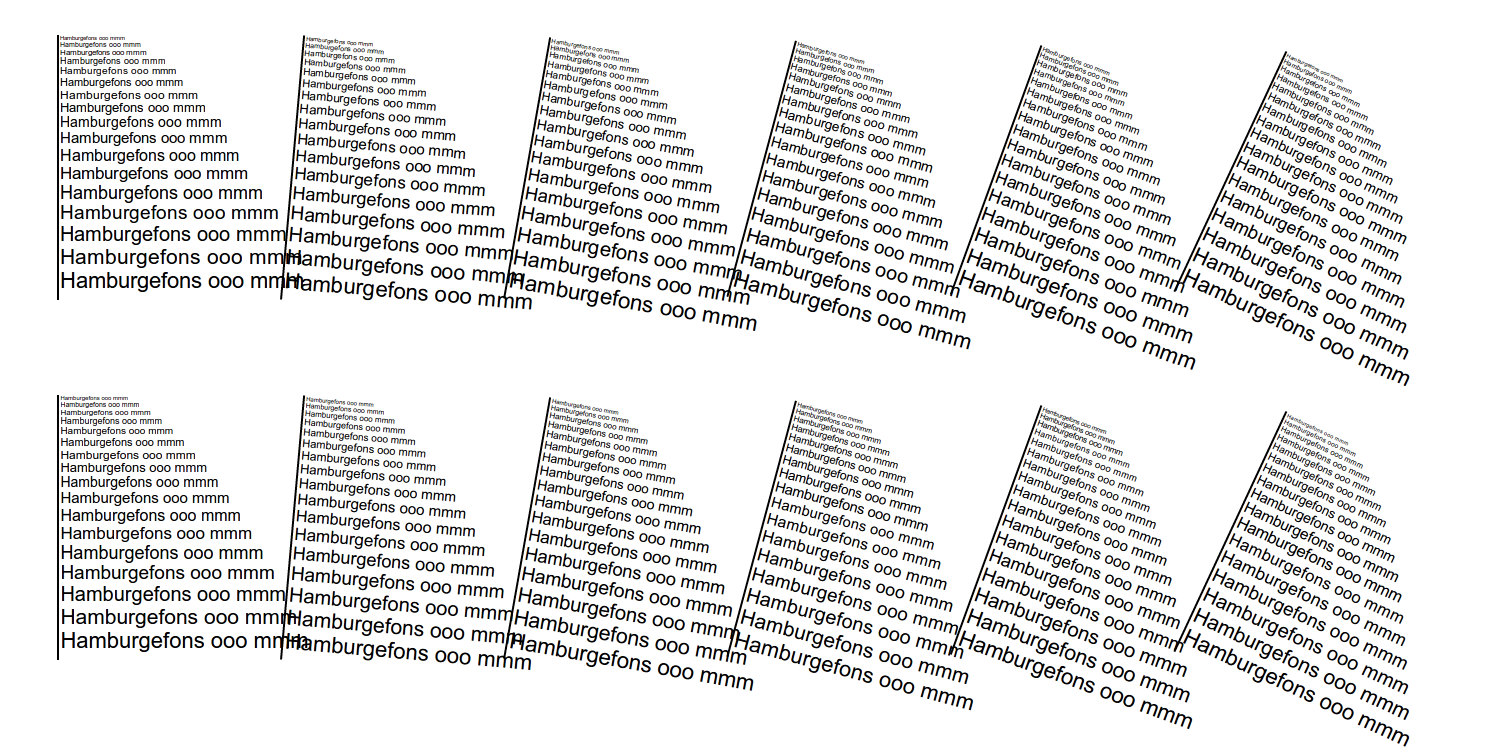
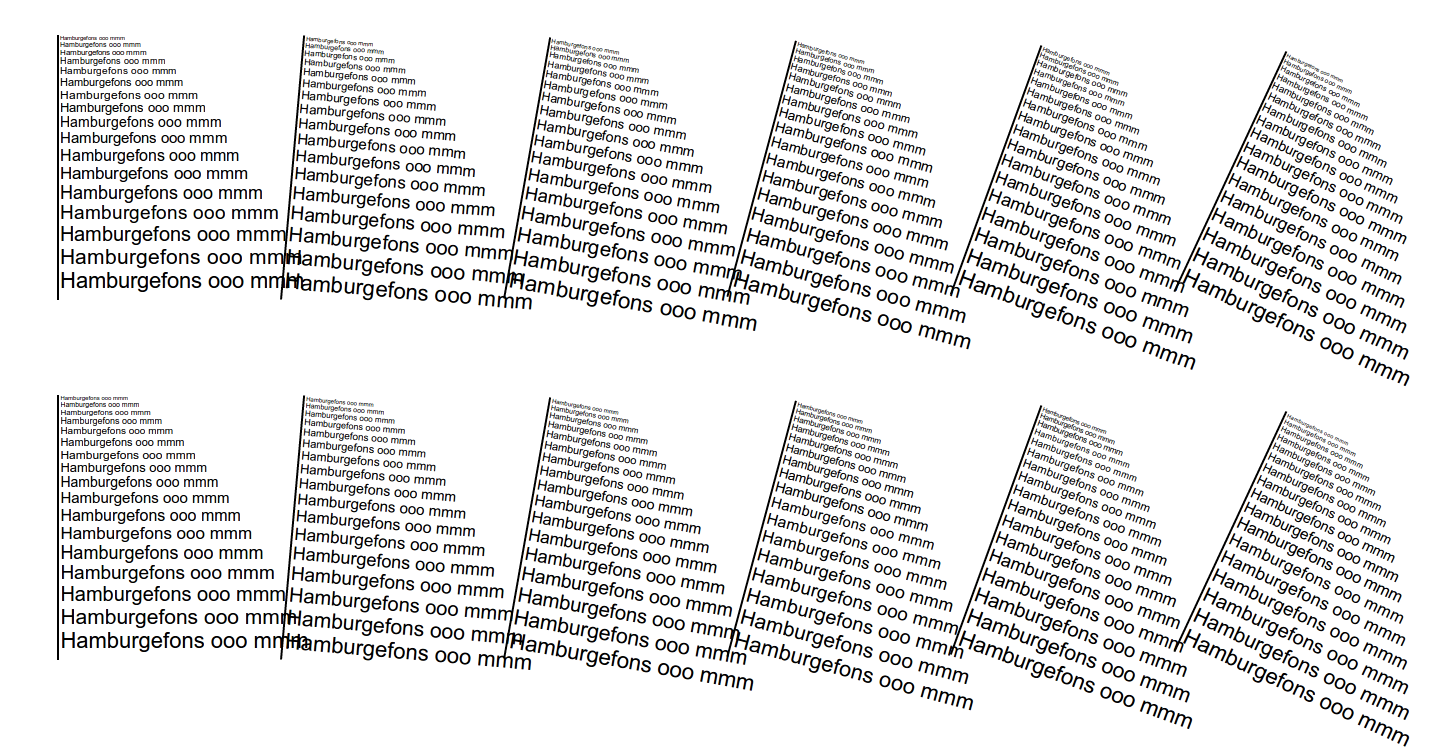
Add font scaler gm. http://codereview.appspot.com/5337044/

diff --git a/src/core/SkPaint.cpp b/src/core/SkPaint.cpp
@@ -1569,7 +1569,13 @@ void SkPaint::flatten(SkFlattenableWriteBuffer& buffer) const {
     ptr = write_scalar(ptr, this->getStrokeWidth());
     ptr = write_scalar(ptr, this->getStrokeMiter());
     *ptr++ = this->getColor();
-    *ptr++ = (this->getFlags() << 16) | (this->getTextAlign() << 8) | flatFlags;
+    // previously flags:16, textAlign:8, flatFlags:8
+    // now flags:16, hinting:4, textAlign:4, flatFlags:8
+    *ptr++ = (this->getFlags() << 16) |
+             // hinting added later. 0 in this nibble means use the default.
+             ((this->getHinting()+1) << 12) |
+             (this->getTextAlign() << 8) |
+             flatFlags;
     *ptr++ = pack_4(this->getStrokeCap(), this->getStrokeJoin(),
                     this->getStyle(), this->getTextEncoding());
 
@@ -1602,9 +1608,17 @@ void SkPaint::unflatten(SkFlattenableReadBuffer& buffer) {
     this->setStrokeMiter(read_scalar(pod));
     this->setColor(*pod++);
 
+    // previously flags:16, textAlign:8, flatFlags:8
+    // now flags:16, hinting:4, textAlign:4, flatFlags:8
     uint32_t tmp = *pod++;
     this->setFlags(tmp >> 16);
-    this->setTextAlign(static_cast<Align>((tmp >> 8) & 0xFF));
+
+    // hinting added later. 0 in this nibble means use the default.
+    uint32_t hinting = (tmp >> 12) & 0xF;
+    this->setHinting(0 == hinting ? kNormal_Hinting : static_cast<Hinting>(hinting-1));
+
+    this->setTextAlign(static_cast<Align>((tmp >> 8) & 0xF));
+
     uint8_t flatFlags = tmp & 0xFF;
 
     tmp = *pod++;

diff --git a/gm/fontscaler.cpp b/gm/fontscaler.cpp
@@ -47,7 +47,7 @@ protected:
     }
 
     virtual SkISize onISize() {
-        return make_isize(1500, 750);
+        return make_isize(1450, 750);
     }
 
     static void rotate_about(SkCanvas* canvas, SkScalar degrees, SkScalar px, SkScalar py) {
